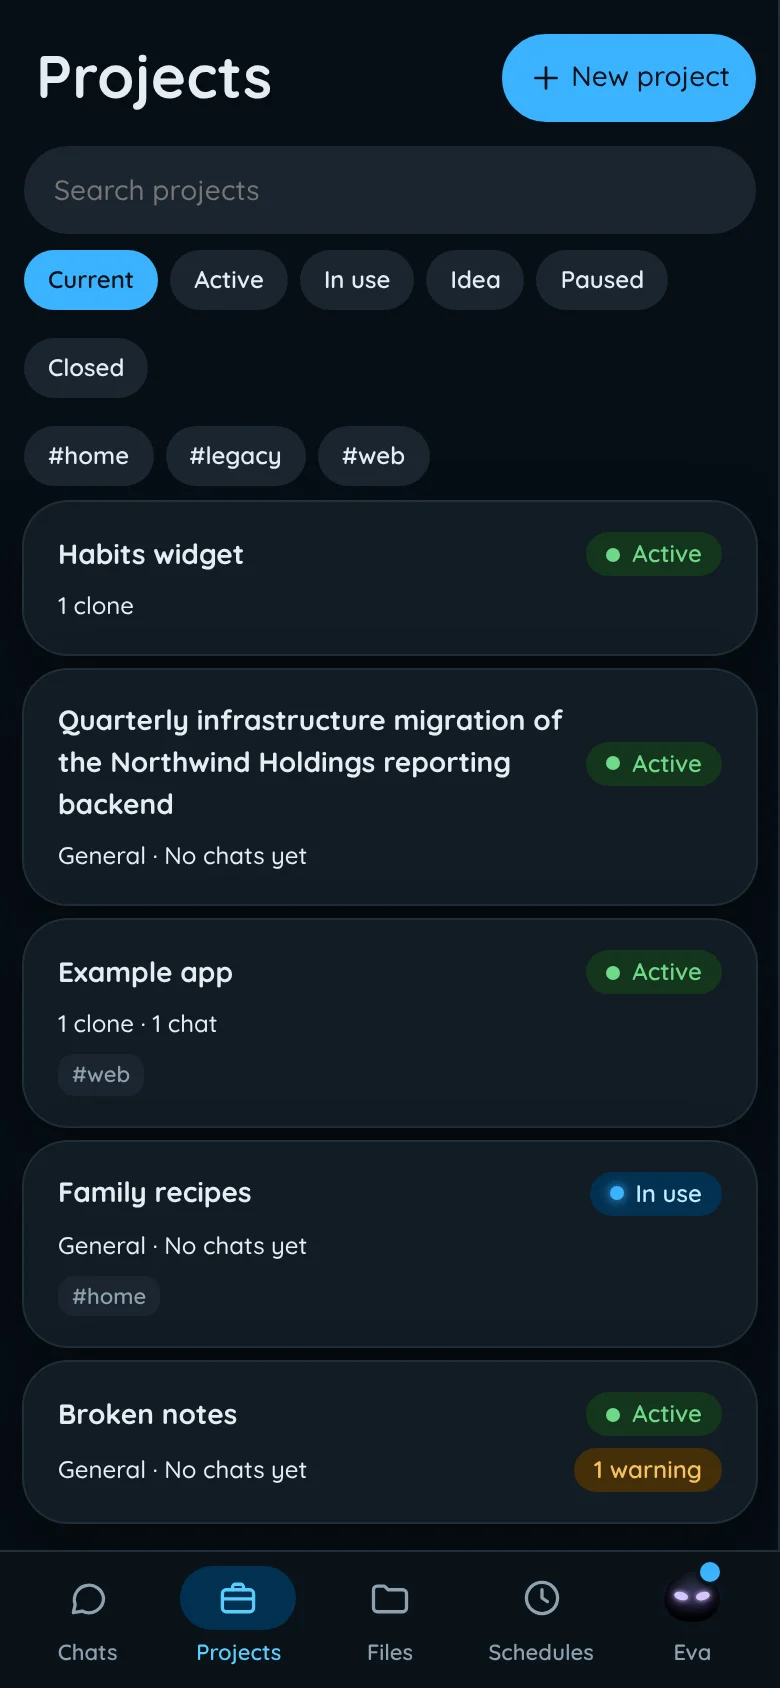
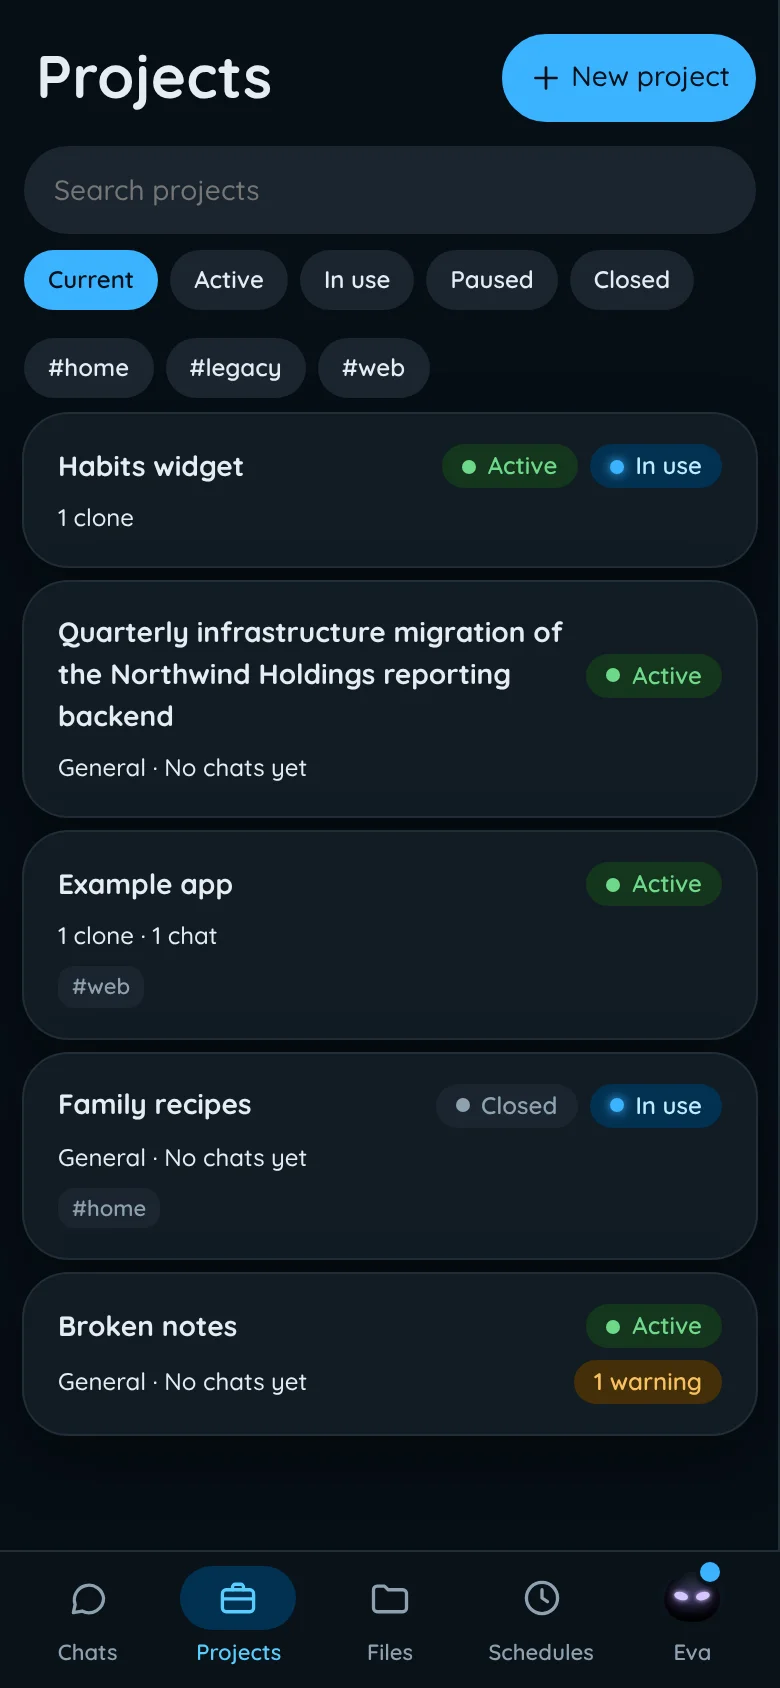
docs: describe the in-use flag of projects and the new timeline
The guide said that a project has one status, with In use and Idea among them (#859). It now says that the status is the work, that In use is a box apart, how Eva updates older projects, and that the timeline always shows the projects in use, with only a Paused chip. The EVE design guide says the same, with new captures of the project list and the Projects home.

Claude-Session: https://claude.ai/code/session_011Ysmyi9kB1dbSr2FZUeJNZ

diff --git a/docs/design/eve/reference.html b/docs/design/eve/reference.html
@@ -2469,7 +2469,7 @@
         active = 0,
       ) => `<div class="lst"><div class="lh"><h2>Projects</h2><span class="btn pri sm">${I("plus")} New</span></div>
   <div class="search">${I("search")} Search projects</div>
-  <div class="row" style="flex-wrap:wrap;gap:6px;padding:0 4px"><span class="chip on">Current</span><span class="chip">Active</span><span class="chip">In use</span><span class="chip">Idea</span><span class="chip">Paused</span><span class="chip">Closed</span><span class="chip">#web</span></div>
+  <div class="row" style="flex-wrap:wrap;gap:6px;padding:0 4px"><span class="chip on">Current</span><span class="chip">Active</span><span class="chip">In use</span><span class="chip">Paused</span><span class="chip">Closed</span><span class="chip">#web</span></div>
   ${projects.map(([n, s, k, t, c, w], i) => `<div class="prj ${i === active ? "on" : ""}"><div class="row"><b class="grow ell">${n}</b><span class="st ${k}">${s}</span></div><div class="row small muted">${c}${w ? `<span class="grow"></span><span class="st warn" style="padding:1px 8px">1 warning</span>` : ""}</div><div class="tags">${t.map((x) => `<span class="tag">#${x}</span>`).join("")}</div></div>`).join("")}</div>`;
       const cloneCard = (
         name,
@@ -2498,7 +2498,7 @@
         desc: "Each project lives in Projects/, with its clones in repos/. Here the person searches, filters and opens them.",
         imp: [
           "The status and tag filters are one-tap chips, not drop-down menus.",
-          "The status has a colour and a shape: active, in use, idea, paused or closed.",
+          "The status has a colour and a shape: active, paused or closed. A project in use also shows an In use pill.",
           "The list opens with the Current filter: the projects that the person develops or uses.",
           "Each clone shows its branch and whether it has changes that are not pushed.",
           "The chats of each clone are inside its card.",
@@ -2507,7 +2507,7 @@
         phone: phone({
           on: "projects",
           head: `<div class="hd big"><h1 class="grow">Projects</h1><span class="ic f">${I("plus")}</span></div>`,
-          body: `<div class="sc"><div class="col"><div class="search">${I("search")} Search projects</div><div class="row" style="gap:6px;flex-wrap:wrap"><span class="chip on">Current</span><span class="chip">Active</span><span class="chip">In use</span><span class="chip">Idea</span><span class="chip">Paused</span><span class="chip">Closed</span></div>
+          body: `<div class="sc"><div class="col"><div class="search">${I("search")} Search projects</div><div class="row" style="gap:6px;flex-wrap:wrap"><span class="chip on">Current</span><span class="chip">Active</span><span class="chip">In use</span><span class="chip">Paused</span><span class="chip">Closed</span></div>
       ${projects
         .slice(0, 4)
         .map(

diff --git a/docs/guide/reference.md b/docs/guide/reference.md
@@ -308,10 +308,11 @@ A request from Eva's own computer can come from any program there, so only the t
   - Pick **Private** or **Public**. A widget is public by default. A private vibe-coded repository uses the CI minutes of your GitHub account, and some guards of the standard need a paid plan. A private widget has no GitHub Pages demo on a free plan.
   - Tick **Create a Google Drive folder** to get a folder in your Drive. It needs the Drive access "Read and change", in **Settings > Connections > Google**.
   - When one of these steps fails, the project stays. The form says what failed, so you can do that step by hand.
-- **Status:** each project has one status. **Active** is a project that you develop. **In use** is a project that you use now, such as a project that makes the week's menus. The other statuses are **Idea**, **Paused** and **Closed**.
-  - The details form writes the dates of the status. When an idea becomes active, it writes `started:` with today. When a project closes, it asks for the day and writes `closed:`. A project that opens again loses `closed:`.
-  - The Projects page opens with the **Current** filter: the active and in-use projects. Tap a status to see only that status. With no project open, a computer shows the chats that need you, your recent chats, a timeline of your projects, and the count of each status in a year. At first, the timeline shows the active and paused projects. Tap a status above it to add or remove that status. Tap a count to filter the list. A phone shows the chats that need you above the list. **Projects**, beside the title of a project, brings you back. In the search, in `eva projects` and in Telegram's `/projects`, type `status:in-use`, `status:current` or `status:any`. Add `tag:work`, or `#work` in Telegram, to see only the projects with that tag.
-  - Each new chat with Eva pins your active and in-use projects, with the title, the folder and the summary. So Eva knows them without a search. See [Pinned files](#pinned-files).
+- **Status and In use:** the status of a project is the work on it: **Active** while you work on it, **Paused** while the work stops, and **Closed** when it ends. Apart from the status, tick **In use** in the details form when you use the project now, such as a project that makes the week's menus. A project can be active and in use: you still build it, and you use it every day. In the file, the box writes `in-use: true`.
+  - Eva updates older projects when she starts: the old status **In use** becomes **Closed** with **In use** ticked, and the old status **Idea** becomes **Paused**.
+  - `started:` and `closed:` are the days of the work. A project with no `started:` started when you created it. When a project closes, the details form asks for the day and writes `closed:`. A project that opens again loses `closed:`.
+  - The Projects page opens with the **Current** filter: the active projects and the projects in use. Tap a status, or **In use**, to see only those projects. With no project open, a computer shows the chats that need you, your recent chats, a timeline of your projects, and the counts of a year. The timeline always shows your active projects and your projects in use. A ring around a bar and an **In use** mark beside its name show a project in use. Tap **Paused** above the timeline to show or hide the paused projects. Tap a count to filter the list. A phone shows the chats that need you above the list. **Projects**, beside the title of a project, brings you back. In the search, in `eva projects` and in Telegram's `/projects`, type `status:in-use`, `status:current` or `status:any`. Add `tag:work`, or `#work` in Telegram, to see only the projects with that tag.
+  - Each new chat with Eva pins your active projects and your projects in use, with the title, the folder and the summary. So Eva knows them without a search. See [Pinned files](#pinned-files).
   - The **New project** form writes the first paragraph of the description as the project's `summary:`. The project page shows it.
 - **Repository setup:** open it from the project page. It checks each repository by its type. A repository with no type, such as one that you added by hand, shows no report: pick its type first.
   - **Fix** on an item that a command can fix runs it on GitHub at once. Press **Refresh** to see the item turn green. Any other **Fix** opens a chat with the request.
@@ -365,7 +366,7 @@ Eva knows some files in every chat with no search. At the start of each new chat
 - `pinned: full` puts the whole file in the block. Keep such a file short.
 - `pinned: summary` puts the file's path and its summary in the block.
 - `pinned: false` keeps the file out of the block.
-- With no `pinned:` value, the status decides. Your active and in-use projects, your open and waiting cases (`Life/Cases/<folder>/Case.md`) and your open period (`Life/Periods/<folder>/Period.md`) each get a summary line.
+- With no `pinned:` value, the status decides. Your active projects and your projects in use, your open and waiting cases (`Life/Cases/<folder>/Case.md`) and your open period (`Life/Periods/<folder>/Period.md`) each get a summary line.
 
 How the block works:
 

diff --git a/docs/design/eve/README.md b/docs/design/eve/README.md
@@ -303,8 +303,8 @@ Each page has a computer and a phone capture, in light and dark. The light captu
 ![Computer](screenshots/projects-computer-light.webp) ![Phone](screenshots/projects-phone-light.webp)
 
 - The status and tag filters are one-tap chips, not drop-down menus.
-- The status has a colour and a shape. "In use" takes the `.live` pill, so it differs from the green "Active". Its dot has no glow, as on "Unread": nothing runs.
-- The list opens with the "Current" filter: the active and in-use projects.
+- The status has a colour and a shape. A project in use shows an "In use" pill beside its status pill. "In use" takes the `.live` pill, so it differs from the green "Active". Its dot has no glow, as on "Unread": nothing runs.
+- The list opens with the "Current" filter: the active projects and the projects in use.
 - Each clone is a card with its branch, its state and its chats.
 - A project card shows the "Unread" pill while one of its chats has an answer that the person did not see.
 - A project page has a "Projects" back button beside its title, on both sizes.
@@ -314,8 +314,9 @@ Each page has a computer and a phone capture, in light and dark. The light captu
 ![Computer](screenshots/projects-home-computer-light.webp) ![Phone](screenshots/projects-home-phone-light.webp)
 
 - With no project open, a computer shows a home page: Needs you, Recent, a timeline of the projects, and the counts of a year. A phone shows only Needs you, above the list.
-- Each project of the timeline has one file type colour, by a hash of its folder name. An active bar is solid. A paused bar has faint stripes. An in-use bar has an outline.
-- Status chips above the timeline add or remove a status. They show Active and Paused at first. Each chip shows the pattern of its bars.
+- Each project of the timeline has one file type colour, by a hash of its folder name. An active bar is solid. A paused bar has faint stripes. A closed bar has a faint fill.
+- A project in use shows once, with a ring around its bar over any pattern, and an "In use" pill beside its name. A gap in the colour of the card keeps the ring apart from a solid bar.
+- The legend above the timeline shows the pattern of each bar. Only Paused is a chip: it shows or hides the paused projects. An active project and a project in use always show.
 - The today line takes the accent. It runs across all the rows, with the date under it.
 
 ### A chat in a clone
